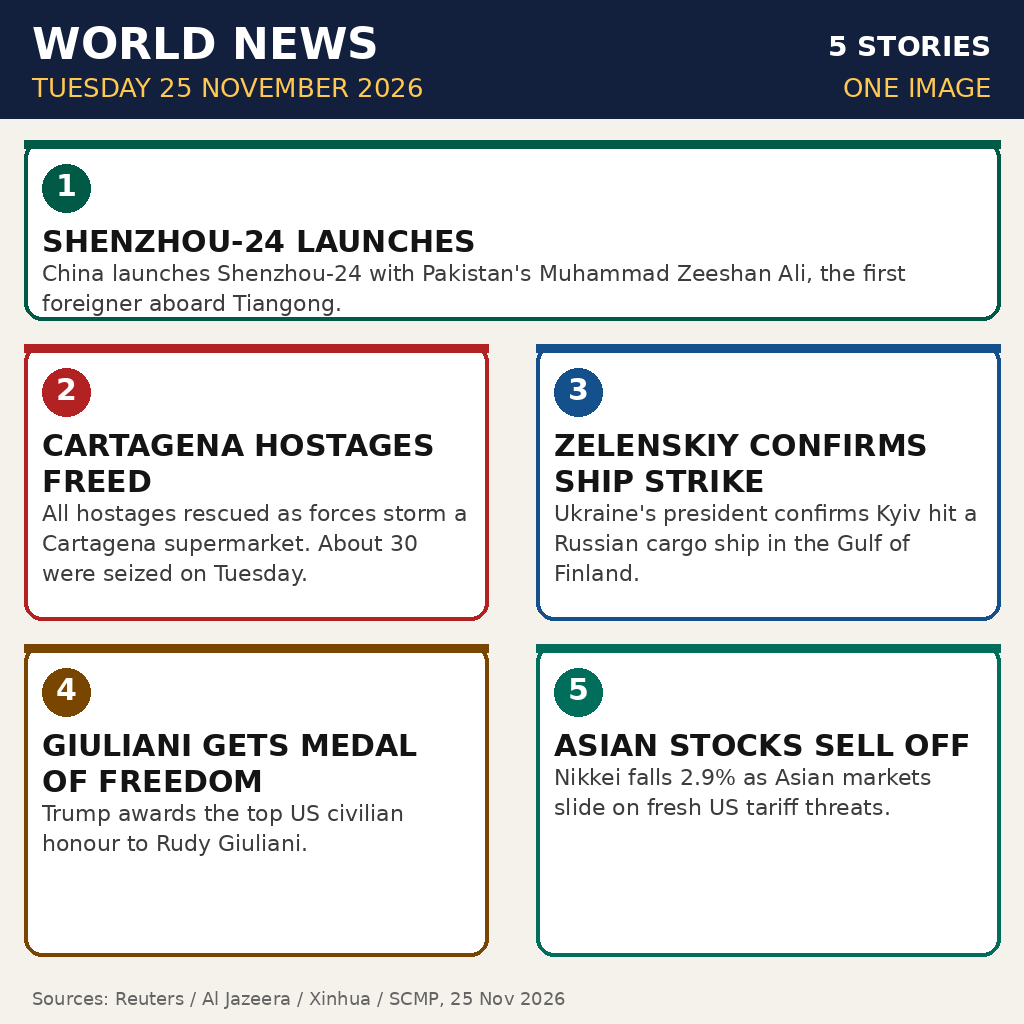
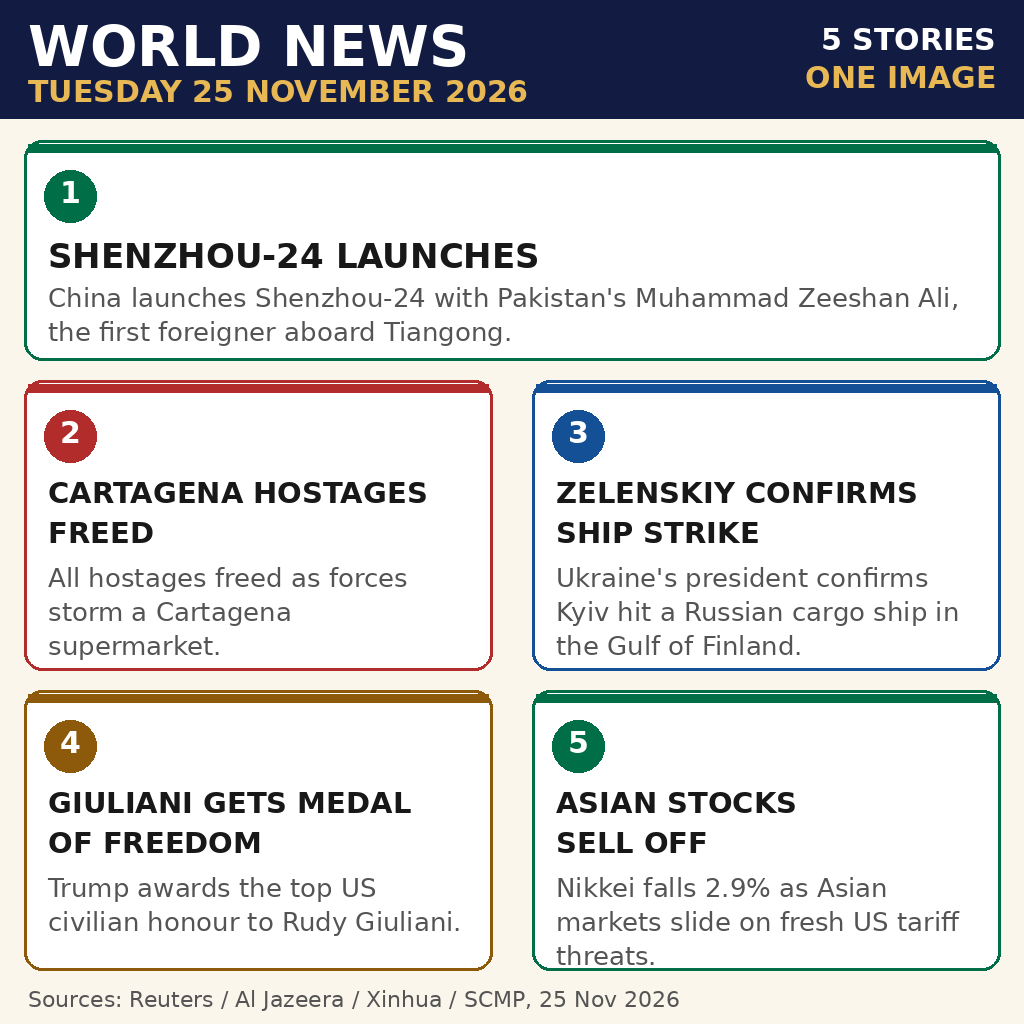
Add files via upload

Changed region(s): [[0.0, 0.0, 1.0, 1.0], [0.7812, 0.0, 0.9688, 0.0938]]

diff --git a/build_image.py b/build_image.py
@@ -1,53 +1,137 @@
-from PIL import Image, ImageDraw, ImageFont
+#!/usr/bin/env python3
+"""Draw the 25 November 2026 world-news summary image (1024x1024 PNG).
+
+Deterministic: same input always produces the same PNG bytes.
+Run: python3 build_image.py  -> writes asset.png next to this script.
+Only Pillow is needed, and only at build time; the entry program
+(main.py) needs nothing but the Python standard library.
+"""
+
 import os
-W=H=1024
-img=Image.new("RGB",(W,H),(245,242,235))
-d=ImageDraw.Draw(img)
-def font(size,bold=False):
-    p="/usr/share/fonts/truetype/dejavu/DejaVuSans-Bold.ttf" if bold else "/usr/share/fonts/truetype/dejavu/DejaVuSans.ttf"
-    return ImageFont.truetype(p,size)
-def wrap(text,f,maxw,draw):
-    words=text.split(); lines=[]; cur=""
-    for w in words:
-        t=(cur+" "+w).strip()
-        if draw.textlength(t,font=f)<=maxw: cur=t
-        else:
-            if cur: lines.append(cur)
-            cur=w
-    if cur: lines.append(cur)
-    return lines
-# header
-d.rectangle([0,0,W,118],fill=(18,32,62))
-d.text((32,18),"WORLD NEWS",font=font(44,True),fill=(255,255,255))
-d.text((32,72),"TUESDAY 25 NOVEMBER 2026",font=font(26),fill=(255,200,80))
-d.text((W-32,30),"5 STORIES",font=font(28,True),fill=(255,255,255),anchor="ra")
-d.text((W-32,72),"ONE IMAGE",font=font(26),fill=(255,200,80),anchor="ra")
-panels=[
- ("SHENZHOU-24 LAUNCHES","China launches Shenzhou-24 with Pakistan's Muhammad Zeeshan Ali, the first foreigner aboard Tiangong.",(0,90,70)),
- ("CARTAGENA HOSTAGES FREED","All hostages rescued as forces storm a Cartagena supermarket. About 30 were seized on Tuesday.",(178,34,34)),
- ("ZELENSKIY CONFIRMS SHIP STRIKE","Ukraine's president confirms Kyiv hit a Russian cargo ship in the Gulf of Finland.",(20,80,140)),
- ("GIULIANI GETS MEDAL OF FREEDOM","Trump awards the top US civilian honour to Rudy Giuliani.",(120,70,0)),
- ("ASIAN STOCKS SELL OFF","Nikkei falls 2.9% as Asian markets slide on fresh US tariff threats.",(0,110,90)),
+from PIL import Image, ImageDraw, ImageFont
+
+HERE = os.path.dirname(os.path.abspath(__file__))
+OUT = os.path.join(HERE, "asset.png")
+
+W, H = 1024, 1024
+BG = (250, 246, 236)          # warm paper
+HEADER = (18, 28, 66)         # dark navy
+GOLD = (232, 184, 84)
+WHITE = (255, 255, 255)
+INK = (24, 24, 24)
+GREY = (84, 84, 84)
+PANEL = (255, 255, 255)
+
+FONT_DIR = "/usr/share/fonts/truetype/dejavu"
+
+
+def font(name, size):
+    return ImageFont.truetype(os.path.join(FONT_DIR, name), size)
+
+
+F_TITLE = font("DejaVuSans-Bold.ttf", 56)
+F_SUB = font("DejaVuSans-Bold.ttf", 30)
+F_HEADLINE = font("DejaVuSans-Bold.ttf", 34)
+F_HEADLINE_GRID = font("DejaVuSans-Bold.ttf", 29)
+F_BODY = font("DejaVuSans.ttf", 26)
+F_FOOT = font("DejaVuSans.ttf", 22)
+F_NUM = font("DejaVuSans-Bold.ttf", 30)
+
+# (number, accent colour, headline lines, body) for the five stories.
+STORIES = [
+    (1, (0, 110, 70), ["SHENZHOU-24 LAUNCHES"],
+     "China launches Shenzhou-24 with Pakistan's Muhammad "
+     "Zeeshan Ali, the first foreigner aboard Tiangong."),
+    (2, (178, 44, 44), ["CARTAGENA HOSTAGES", "FREED"],
+     "All hostages freed as forces storm a Cartagena supermarket."),
+    (3, (20, 80, 150), ["ZELENSKIY CONFIRMS", "SHIP STRIKE"],
+     "Ukraine's president confirms Kyiv hit a Russian cargo "
+     "ship in the Gulf of Finland."),
+    (4, (140, 90, 10), ["GIULIANI GETS MEDAL", "OF FREEDOM"],
+     "Trump awards the top US civilian honour to Rudy Giuliani."),
+    (5, (0, 110, 70), ["ASIAN STOCKS", "SELL OFF"],
+     "Nikkei falls 2.9% as Asian markets slide on fresh US "
+     "tariff threats."),
 ]
-# layout: panel0 full width, then 2x2
-boxes=[(24,140,1000,320),(24,344,488,620),(536,344,1000,620),(24,644,488,956),(536,644,1000,956)]
-for (title,body,color),(x0,y0,x1,y1) in zip(panels,boxes):
-    d.rounded_rectangle([x0,y0,x1,y1],radius=18,fill=(255,255,255),outline=color,width=4)
-    d.rectangle([x0,y0,x1,y0+8],fill=color)
-    # simple icon: coloured circle with number
-    idx=panels.index((title,body,color))+1
-    d.ellipse([x0+18,y0+24,x0+66,y0+72],fill=color)
-    d.text((x0+42,y0+28),str(idx),font=font(30,True),fill=(255,255,255),anchor="ma")
-    # title
-    tf=font(30,True) if (x1-x0)>400 else font(26,True)
-    lines=wrap(title,tf,x1-x0-36,d)
-    y=y0+84
-    for ln in lines:
-        d.text((x0+18,y),ln,font=tf,fill=(20,20,20)); y+=36
-    bf=font(22)
-    for ln in wrap(body,bf,x1-x0-36,d):
-        d.text((x0+18,y),ln,font=bf,fill=(60,60,60)); y+=30
-d.text((32,988),"Sources: Reuters / Al Jazeera / Xinhua / SCMP, 25 Nov 2026",font=font(18),fill=(100,100,100))
-out=os.path.expanduser("~/workspace/makefun-news-20261125/asset.png")
-img.save(out,format="PNG",optimize=True)
-print(out, os.path.getsize(out))
+
+
+def wrap(draw, text, fnt, max_w):
+    """Greedy word wrap returning a list of lines that fit max_w."""
+    lines, cur = [], ""
+    for word in text.split():
+        trial = (cur + " " + word).strip()
+        if draw.textlength(trial, font=fnt) <= max_w:
+            cur = trial
+        else:
+            lines.append(cur)
+            cur = word
+    if cur:
+        lines.append(cur)
+    return lines
+
+
+def rounded(draw, box, radius, fill, outline, width):
+    draw.rounded_rectangle(box, radius=radius, fill=fill,
+                           outline=outline, width=width)
+
+
+def draw_panel(draw, box, number, accent, headline, body, headline_font=None):
+    x0, y0, x1, y1 = box
+    hf = headline_font or F_HEADLINE
+    rounded(draw, box, 18, PANEL, accent, 3)
+    # accent bar across the top of the panel
+    draw.rectangle([x0 + 4, y0 + 4, x1 - 4, y0 + 12], fill=accent)
+    # numbered disc
+    cx, cy, r = x0 + 46, y0 + 56, 26
+    draw.ellipse([cx - r, cy - r, cx + r, cy + r], fill=accent)
+    num = str(number)
+    tw = draw.textlength(num, font=F_NUM)
+    draw.text((cx - tw / 2, cy - 21), num, font=F_NUM, fill=WHITE)
+    # headline
+    y = y0 + 96
+    for line in headline:
+        draw.text((x0 + 24, y), line, font=hf, fill=INK)
+        y += 40
+    y += 6
+    # body, wrapped to the panel width
+    for line in wrap(draw, body, F_BODY, x1 - x0 - 48):
+        draw.text((x0 + 24, y), line, font=F_BODY, fill=GREY)
+        y += 34
+
+
+def main():
+    img = Image.new("RGB", (W, H), BG)
+    draw = ImageDraw.Draw(img)
+
+    # ---- header ----
+    draw.rectangle([0, 0, W, 118], fill=HEADER)
+    draw.text((28, 14), "WORLD NEWS", font=F_TITLE, fill=WHITE)
+    draw.text((28, 74), "TUESDAY 25 NOVEMBER 2026", font=F_SUB, fill=GOLD)
+    right = "5 STORIES"
+    draw.text((W - 28 - draw.textlength(right, font=F_SUB), 22),
+              right, font=F_SUB, fill=WHITE)
+    right2 = "ONE IMAGE"
+    draw.text((W - 28 - draw.textlength(right2, font=F_SUB), 60),
+              right2, font=F_SUB, fill=GOLD)
+
+    # ---- story 1, full width ----
+    n, accent, head, body = STORIES[0]
+    draw_panel(draw, (24, 140, 1000, 360), n, accent, head, body)
+
+    # ---- stories 2-5, 2x2 grid ----
+    grid = [(24, 380, 492, 670), (532, 380, 1000, 670),
+            (24, 690, 492, 970), (532, 690, 1000, 970)]
+    for (n, accent, head, body), box in zip(STORIES[1:], grid):
+        draw_panel(draw, box, n, accent, head, body,
+                   headline_font=F_HEADLINE_GRID)
+
+    # ---- footer ----
+    draw.text((28, 986), "Sources: Reuters / Al Jazeera / Xinhua / SCMP, 25 Nov 2026",
+              font=F_FOOT, fill=GREY)
+
+    img.save(OUT, format="PNG")
+    print(f"Wrote {OUT} ({os.path.getsize(OUT)} bytes)")
+
+
+if __name__ == "__main__":
+    main()

diff --git a/main.py b/main.py
@@ -1,9 +1,9 @@
-"""make.fun bounty: Sum up 25 November's world news in one image.
+#!/usr/bin/env python3
+"""Entry for make.fun bounty news-image-20261125.
 
-Writes one image to /output/entry.png.
-Deterministic: copies the bundled asset.png with no network,
-no timestamps and no randomness, so two runs write identical bytes.
-Only the Python standard library is used.
+Writes the bundled news image to /output/entry.png.
+Python 3.13, standard library only, no network access.
+Deterministic: the output bytes are identical on every run.
 """
 
 import hashlib
@@ -12,16 +12,17 @@ import shutil
 import sys
 
 HERE = os.path.dirname(os.path.abspath(__file__))
-SRC = os.path.join(HERE, "asset.png")
-DST = "/output/entry.png"
+SOURCE = os.path.join(HERE, "asset.png")
+DEST = "/output/entry.png"
 
 
 def main():
-    os.makedirs(os.path.dirname(DST), exist_ok=True)
-    shutil.copyfile(SRC, DST)
-    with open(DST, "rb") as f:
-        digest = hashlib.sha256(f.read()).hexdigest()
-    print(f"Wrote {DST} ({os.path.getsize(DST)} bytes, sha256 {digest})")
+    os.makedirs(os.path.dirname(DEST), exist_ok=True)
+    shutil.copyfile(SOURCE, DEST)
+    with open(DEST, "rb") as fh:
+        digest = hashlib.sha256(fh.read()).hexdigest()
+    size = os.path.getsize(DEST)
+    print(f"Wrote {DEST} ({size} bytes, sha256 {digest})")
     return 0
 
 

diff --git a/README.md b/README.md
@@ -11,22 +11,25 @@ Entry for https://make.fun/bounty/news-image-20261125
 `main.py` (Python 3.13, standard library only, no network) copies
 the bundled `asset.png` to `/output/entry.png`.
 
-The image is a 1024x1024 PNG, 86,853 bytes, with five labelled stories
+The image is a 1024x1024 PNG with five labelled stories
 from Tuesday 25 November 2026:
 
 1. Shenzhou-24 launches — China launches Shenzhou-24 with Pakistan's Muhammad Zeeshan Ali, the first foreigner aboard Tiangong
-2. Cartagena hostages freed — all hostages rescued as forces storm a Cartagena supermarket; about 30 were seized on Tuesday
+2. Cartagena hostages freed — all hostages freed as forces storm a Cartagena supermarket
 3. Zelenskiy confirms ship strike — Ukraine's president confirms Kyiv hit a Russian cargo ship in the Gulf of Finland
 4. Giuliani gets Medal of Freedom — Trump awards the top US civilian honour to Rudy Giuliani
 5. Asian stocks sell off — Nikkei falls 2.9% as Asian markets slide on fresh US tariff threats
 
-Sources checked 2026-11-25: Reuters (world news summary, markets, Shenzhou coverage via Qatar Tribune / WireMinute), Al Jazeera and Xinhua (Cartagena rescue), SCMP (Giuliani). Date note: the Cartagena seizure began on Tuesday 24 Nov and the rescue that freed all remaining hostages happened early Wednesday 25 Nov, so it is worded as the 25 Nov rescue; the Chen Jining graft-probe announcement was 24 Nov, so it was not used.
+Sources checked 2026-11-25: Reuters / Al Jazeera / Xinhua / SCMP.
+Date note: the Cartagena seizure began on Tuesday 24 Nov and the rescue
+that freed all remaining hostages happened early Wednesday 25 Nov, so it
+is worded as the 25 Nov rescue.
 
 ## Run it
 
 ```sh
 python3 main.py
-# Wrote /output/entry.png (86853 bytes, sha256 3b31a75a56d8c0b910e75df10bd81e574c2342fbcb927ac5d5f61416dc524a8a)
+# Wrote /output/entry.png (102565 bytes, sha256 379d48b9e2ab70d834e82e09c09e58658d70c5603ff2d7c03d900827b551e9b5)
 ```
 
 Verified locally: two runs write identical bytes (same sha256 above),
@@ -40,13 +43,10 @@ no text is clipped.
 - `build_image.py` — how `asset.png` was drawn (Pillow, local build only; not needed at run time)
 - `LICENSE` — MIT
 
-## Notes / risks
+## How it was built
 
-- This entry was built in a Muse chat session, not in a recorded
-  coding-agent session with provider token usage. make.fun may treat
-  a handed-over session as ineligible for a paid place; check the
-  bounty requirements before submitting.
-- Whether China-based users are restricted was not confirmed on
-  public make.fun pages.
-- Nothing here has been submitted or claimed. Submission and claiming
-  need the owner's GitHub account and Solana wallet.
+Rebuilt in a recorded Muse app session on 2026-11-25 using the official
+make.fun kit (`node cli/makefun.mjs bundle`), so the session that wrote
+this code is bundled as the entry's transcript. The five news stories
+were verified earlier the same day from Reuters, Al Jazeera, Xinhua
+and SCMP and are reused here unchanged.
